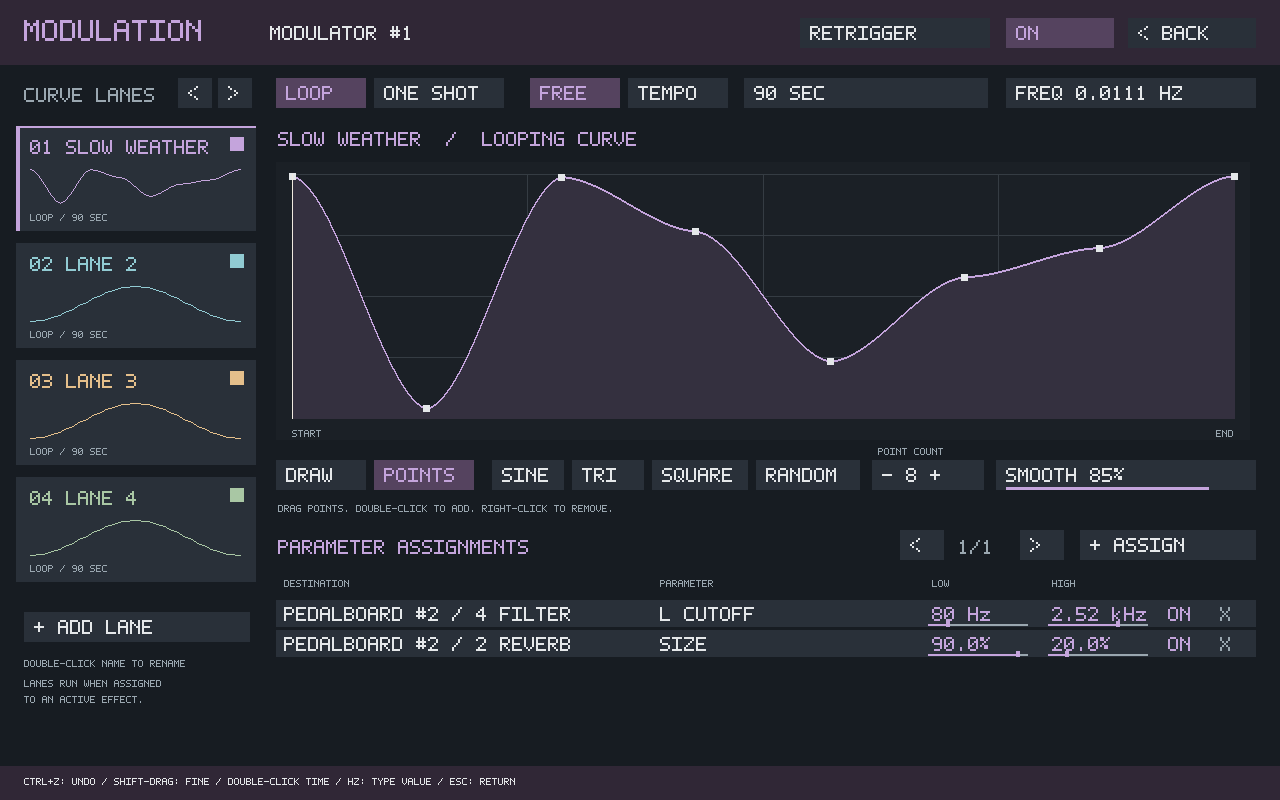
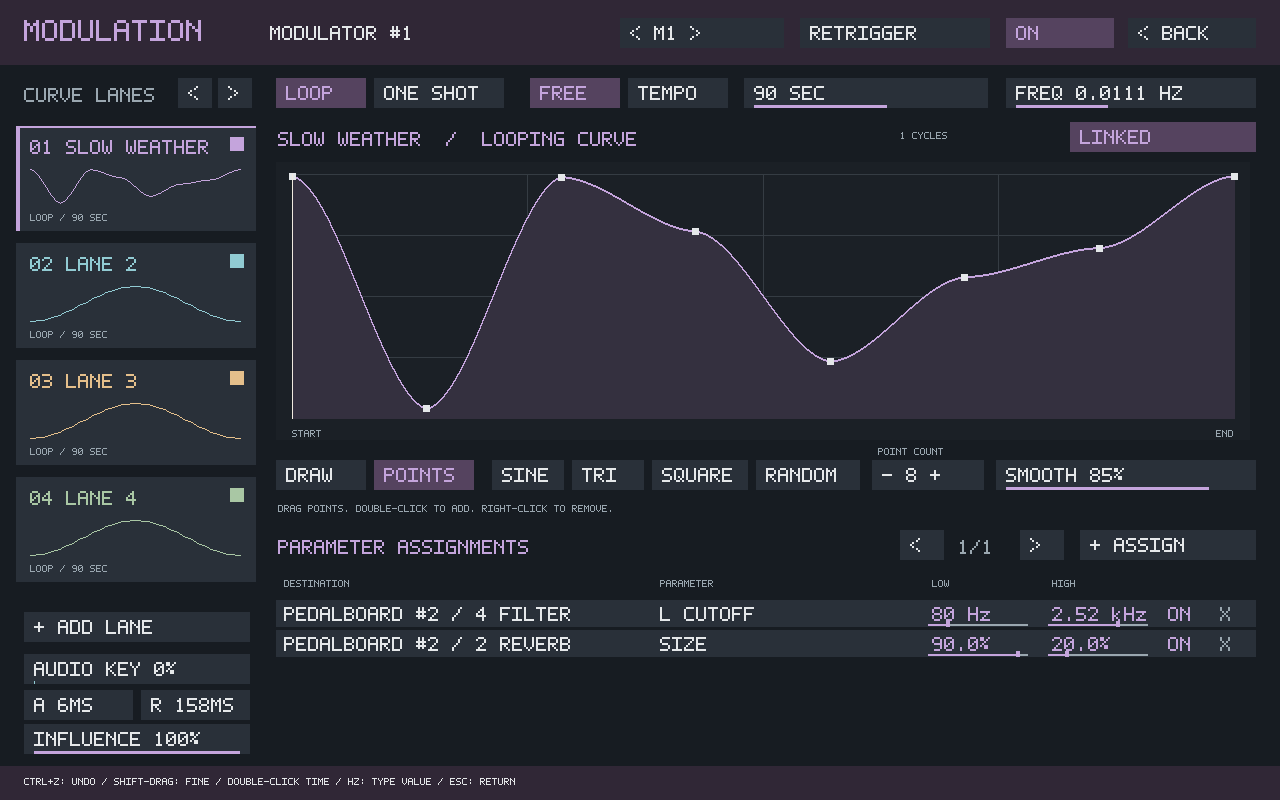
Document modulation inputs and preserve normal-stack test coverage

diff --git a/src/ts_matrix_effects.c b/src/ts_matrix_effects.c
@@ -138,6 +138,8 @@ void ts_matrix_effects_suspend(TsMatrixEffects *f,unsigned mask)
         if(f->current[i])ts_pedalboard_finish_edits(f->current[i]->board);
         atomic_store_explicit(&f->remaining[i],0,memory_order_relaxed);f->fading&=~(1u<<i);
     }
+    for(int i=0;i<TS_MATRIX_EFFECT_CAPACITY;++i)if((mask&~f->suspended)&(1u<<i)){
+        TsMatrixEffectNode *n=f->current[i];if(n && n->type==TS_MATRIX_FX_MODULATOR)n->mod->envelope=0;}
     f->rendered=0;if(f->suspended!=mask)f->mod_remaining=0;f->suspended=mask;
 }
 static int effect_asleep(const TsMatrixEffects *f,int i)

diff --git a/tests/test_sample_pages.c b/tests/test_sample_pages.c
@@ -207,8 +207,10 @@ static void test_project_roundtrip_with_record_bank(void)
     TsInstrument restored_record;
     TsSamplePages pages;
     TsSamplePages restored;
-    TsSisterProjectState state;
-    TsSisterProjectState restored_state;
+    /* Keep large project fixtures off the stack; the application has a
+       separate startup regression with the normal 8 MiB desktop limit. */
+    static TsSisterProjectState state;
+    static TsSisterProjectState restored_state;
     char error[160];
     size_t copied;
     int state_present = 0;

diff --git a/docs/FX_CANVAS.md b/docs/FX_CANVAS.md
@@ -79,10 +79,13 @@ history and save with the project.
 | **DRAW** | Drag across the graph to draw a curve. Strokes interpolate between pointer events, preserve untouched sampled points, and include the release position. Audio publication is coalesced to UI frames and flushed on release. |
 | **POINTS** | Drag a point; double-click empty graph space to insert one; right-click an interior point to remove it. |
 | **SINE / TRI / SQUARE / RANDOM** | Replace the selected curve. Random uses the current point count. Square has editable, near-vertical edges. Generated points and the next random seed are saved, so loading never rolls a new shape. |
-| **POINT COUNT − / +** | Immediately add or remove points on the current curve (2–64). The wheel also changes the count. Added points follow the shape; removal simplifies the least significant corners first. |
+| **POINT COUNT − / +** | Immediately add or remove points on the current curve (2–64). The wheel also changes the count. The last detailed shape is retained: reducing to two points and increasing again recovers it. A new drawing stroke or generated shape becomes the new reference. |
 | **SMOOTH** | Drag to round the transitions between points without overshooting their values. Shift-drag gives finer adjustment. |
 | **LOOP / ONE SHOT** | Repeat the curve, or run once and hold its final value. Loop endpoints are joined when drawing, moving an endpoint, randomizing, or switching to Loop. |
-| **FREE / TEMPO** | Set cycle duration in seconds (0.05–14,400) or quarter-note beats (1/16–1,024). Free timing also exposes **FREQ** in Hz (1/14,400–20); frequency and seconds are reciprocal views of the same duration. Drag either value or double-click to type it. Tempo follows F11's master tempo, including the tracker clock when it is the enabled master source. |
+| **FREE / TEMPO** | Set cycle duration in seconds (0.05–14,400) or quarter-note beats (1/16–1,024). Free timing also exposes **FREQ** in Hz (1/14,400–20); in **LINKED** mode frequency and seconds are reciprocal. **UNLINKED** keeps them independent: duration × frequency sets cycles across the visible window. Drag, wheel, or double-click either value; Shift gives finer adjustment. Shaded levels show their logarithmic position. Tempo follows F11's master tempo, including the tracker clock when it is the enabled master source. |
+| **< M1 >** | Switch among the project’s Modulator instances without leaving this window. |
+| **INFLUENCE** | Blend all assignments from their authored parameter values (0%) to the curve ranges (100%). Available in the FX inspector and as another Modulator’s destination. |
+| **AUDIO KEY / A / R** | Blend an audio envelope into Influence. Connect audio to the lower input port and increase Audio Key; A/R control attack (1–1,000 ms) and release (10–10,000 ms). |
 | **RETRIGGER** | Restart this card's lanes from their first point. Tempo timing controls duration; it does not quantize this command or automatically retrigger at markers. |
 | **+ ASSIGN** | Choose an added effect or an individual pedal inside an added Pedalboard, then choose an available continuous parameter. |
 | **LOW / HIGH** | Drag the value, use its slider, or scroll over it. Wheel steps are 1%; Shift+wheel uses 0.1%. Each endpoint moves independently. Inverting the endpoints reverses that assignment. Cutoff is shown in Hz and output in dB; other ranges use normalized percentages. |
@@ -90,11 +93,30 @@ history and save with the project.
 | Lane square / top **ON** | Bypass one lane or the entire card. Double-click a lane name to rename it. |
 | **Esc / BACK** | Return to the window that opened the editor; Esc first cancels an open picker or text entry. |
 
-The ordinary audio path goes through the effects. Dashed lilac cables show
-parameter assignments; the Modulator has no audio input. Drag its output to an
-added effect (or select it and Ctrl+Shift-click the effect) to create an assignment
-and open the parameter picker. Edit/remove these control links in the modulation
-editor. Audio cable selection, gain and Clear Cables apply to audio routes.
+The ordinary audio path goes through the effects. Dashed lilac cables are
+parameter assignments. Adding or connecting a Modulator never opens its editor;
+double-click its card to edit. Control cables support click/box selection,
+right-click color, and Delete; deleting one removes the assignments represented
+by that cable. Shift+wheel changes audio cable gain, not control assignments.
+
+The Modulator’s lower audio input is a detector only: it produces no audio
+output. Audio Key defaults to 0%, preserving ordinary curve playback. At 100%,
+silence removes the Modulator’s influence and a full-scale peak permits full
+influence; intermediate levels scale it. The source may be another effect’s
+output, including a transient shaper. Influence can also be assigned by another
+Modulator. Control chains run in dependency order and direct/indirect control
+loops are rejected. Audio detector feedback is causal through the envelope and
+next control tick (up to about 6.7 ms at 48 kHz).
+
+In unlinked free timing, generated templates repeat analytically. Editing points
+or drawing captures the displayed window into the existing 64-point budget, so
+individual cycles can differ. Dense generated patterns lose fine detail when
+captured for drawing. Linking again preserves the current window in that same
+point budget. Tempo mode keeps its existing beats-per-window behavior.
+
+Inherited card-to-Mosaic-bus cables are selectable and deletable. Disconnecting
+creates an explicit silent route, matching F9. These operations share the
+same route data and undo history.
 
 Supported targets include native pedal controls, continuous Character Filter
 controls, added compressor controls, Meta FX macros, and host Mix/Output for
